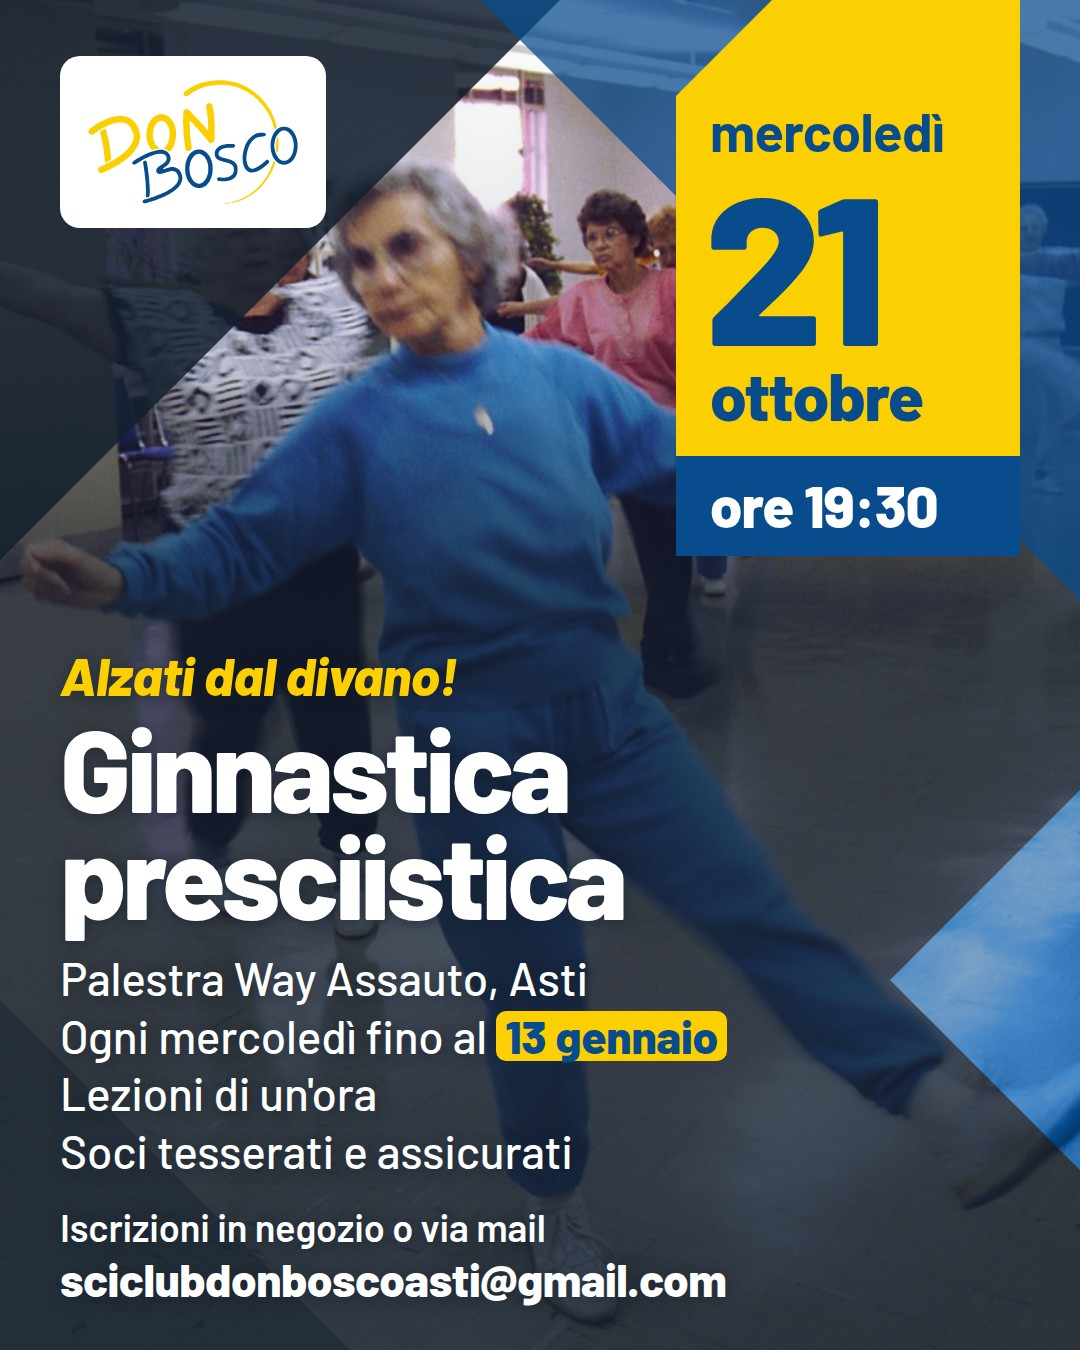
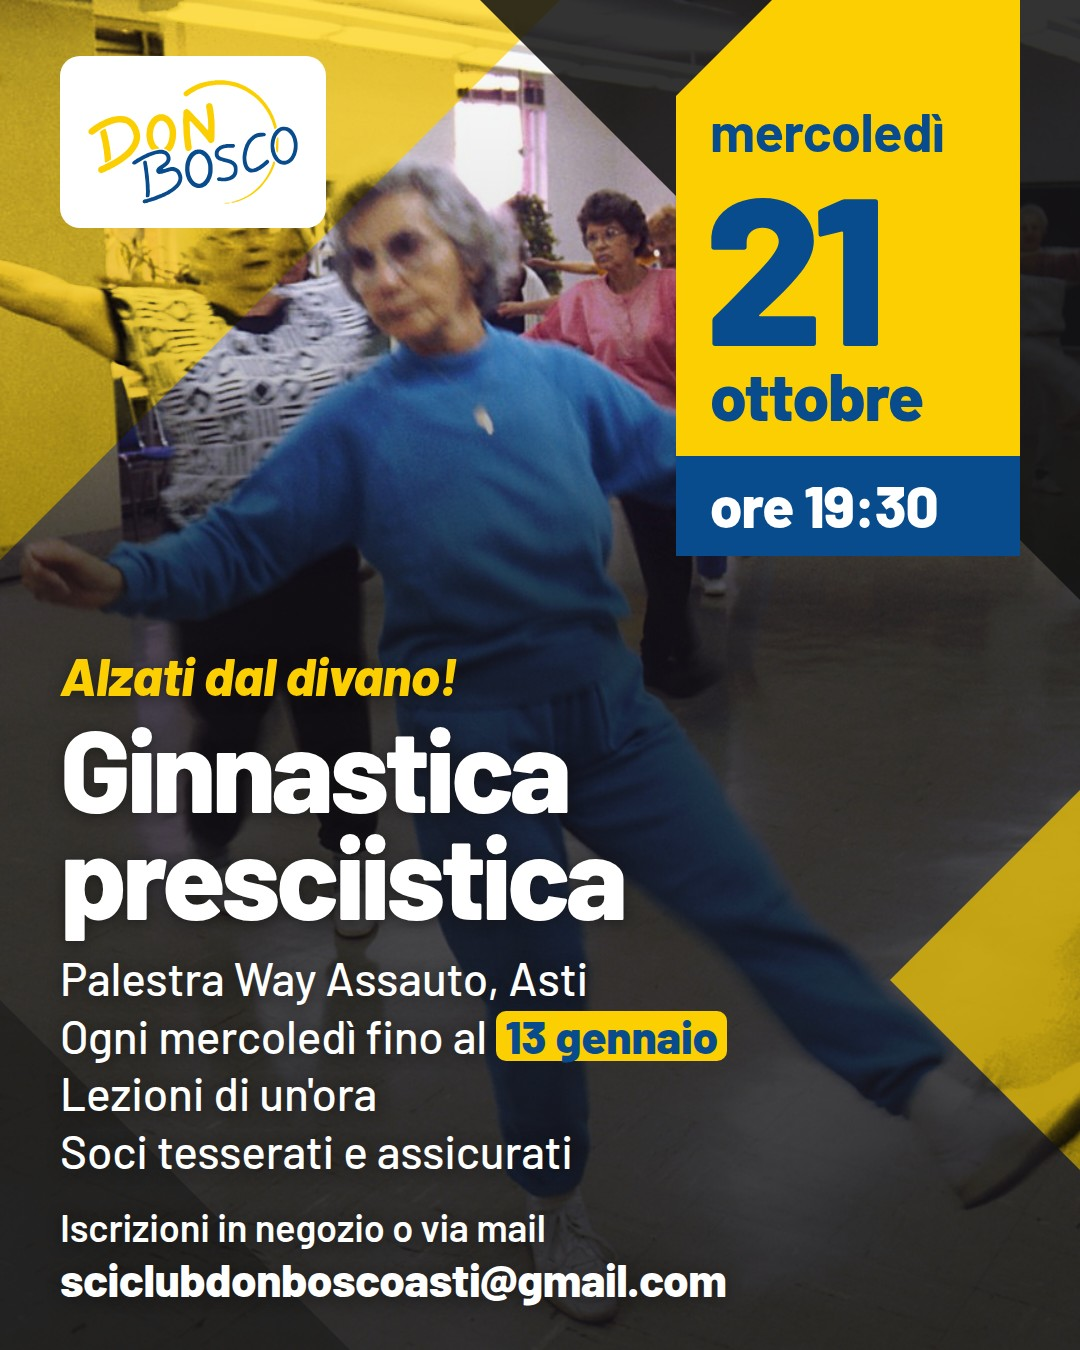
docs(social): K Piani anche in giallo e nero per corsi e gite di domenica [skip ci]
Due colori dal colore del post, come A e C e coloreNuovo nel generatore:
corso e gita in giallo e nero, evento e calendario restano blu e nero.
Nel giallo e nero i piani scuri sono in nero neutro (--notte), il cuneo
dietro la tessera resta scuro, l'angolo in alto a sinistra e la finestra a
destra sono gialli e semitrasparenti (--velo-giallo, 0,7): la foto in grigi
schiariti col giallo in multiply, che non diventa oliva. Tessera, fascia
dell'ora e riquadrini restano blu.

diff --git a/grafica/proposte-post-social/sorgenti/k.css b/grafica/proposte-post-social/sorgenti/k.css
@@ -9,17 +9,18 @@
  * giallo, il titolo bianco in minuscolo e i dati, con orari, prezzi e scadenze
  * nei riquadrini gialli (come in C).
  * Con la classe "story" su <html> la tela è 1080×1920 (fasce coperte 250 e 340). */
-html { --fine: 620px; --angolo: 560px; --cuneo: 600px; --su: 0px; --giu: 0px; }
+/* --notte: il blu notte dei piani e del velo (nelle varianti gialle un nero neutro). */
+html { --notte: 20,32,46; --fine: 620px; --angolo: 560px; --cuneo: 600px; --su: 0px; --giu: 0px; }
 html.story { --fine: 850px; --angolo: 760px; --cuneo: 780px; --su: 250px; --giu: 340px; }
 .cv { background: var(--testo); color: #fff; }
 
 /* La foto a tutta pagina e il velo che la scurisce dove sta il testo (da --fine). */
 .foto { position: absolute; inset: 0; width: 100%; height: 100%; object-fit: cover; object-position: var(--fuoco, center 45%); }
 .piano { position: absolute; inset: 0; }
-.scuro { background: linear-gradient(180deg, rgba(20,32,46,0) 0, rgba(20,32,46,.12) calc(var(--fine) - 300px),
-  rgba(20,32,46,.72) calc(var(--fine) - 20px), rgba(20,32,46,.8) 100%); }
+.scuro { background: linear-gradient(180deg, rgba(var(--notte),0) 0, rgba(var(--notte),.12) calc(var(--fine) - 300px),
+  rgba(var(--notte),.72) calc(var(--fine) - 20px), rgba(var(--notte),.8) 100%); }
 /* I piani, tutti tagliati a 45°. */
-.angolo { background: rgba(20,32,46,.86); clip-path: polygon(0 0, var(--angolo) 0, 0 var(--angolo)); }
+.angolo { background: rgba(var(--notte),.86); clip-path: polygon(0 0, var(--angolo) 0, 0 var(--angolo)); }
 .cuneo { background: rgba(8,76,141,.74); clip-path: polygon(calc(100% - var(--cuneo)) 0, 100% 0, 100% var(--cuneo)); }
 /* La finestra: la stessa foto, allineata, in bianco e nero tinta di blu (fusione "color"). */
 .finestra { background: linear-gradient(rgba(8,76,141,.5), rgba(8,76,141,.5)), linear-gradient(var(--blu), var(--blu)), var(--immagine) var(--fuoco, center 45%) / cover;
@@ -27,7 +28,7 @@ html.story { --fine: 850px; --angolo: 760px; --cuneo: 780px; --su: 250px; --giu:
   clip-path: polygon(100% calc(var(--fine) + 170px), 890px calc(var(--fine) + 360px), 100% calc(var(--fine) + 550px)); }
 .finestra.fondo { display: none; clip-path: polygon(100% calc(100% - 400px), 680px 100%, 100% 100%); }
 html.story .finestra.fondo { display: block; }
-.ombra { background: rgba(20,32,46,.4); clip-path: polygon(0 calc(100% - var(--giu) - 350px), calc(var(--giu) + 350px) 100%, 0 100%); }
+.ombra { background: rgba(var(--notte),.4); clip-path: polygon(0 calc(100% - var(--giu) - 350px), calc(var(--giu) + 350px) 100%, 0 100%); }
 
 .logo-box { position: absolute; left: 60px; top: calc(var(--su) + 56px); padding: 16px 20px; border-radius: 20px; }
 .logo-box img { height: 140px; }
@@ -47,7 +48,7 @@ html.story .finestra.fondo { display: block; }
 /* Il testo sulla foto scurita, da un punto fisso: titolo sempre alto due righe.
  * L'ombra morbida lo stacca dai chiari della foto; i riquadri non ce l'hanno. */
 .testo { position: absolute; left: 60px; right: 60px; top: calc(var(--fine) + 28px); }
-.testo, .iscrizioni { text-shadow: 0 2px 14px rgba(20,32,46,.6); }
+.testo, .iscrizioni { text-shadow: 0 2px 14px rgba(var(--notte),.6); }
 .fatti b, .giorno, .corso { text-shadow: none; }
 .gancio { font: italic 800 54px / 1 Barlow, sans-serif; color: var(--giallo); letter-spacing: -.01em; }
 h1 { font: 800 116px / .92 Barlow, sans-serif; letter-spacing: -.035em; max-width: 640px; margin-top: 12px; min-height: calc(2 * .92 * 116px); }
@@ -66,3 +67,17 @@ html.story .iscrizioni { bottom: 360px; font-size: 44px; }
 .dom { background: var(--giallo); } .sab { background: #fff; }
 .meta { font-size: 48px; font-weight: 700; letter-spacing: -.01em; }
 .corso { font: 700 36px / 1 Barlow, sans-serif; color: var(--giallo); border: 3px solid var(--giallo); border-radius: 999px; padding: 6px 16px; }
+
+/* K in giallo e nero, per i post gialli (corsi e gite di domenica, come coloreNuovo nel
+ * generatore); evento e calendario restano blu. Piani scuri in nero neutro; il cuneo dietro la
+ * tessera resta scuro, se no la tessera sparisce; i dettagli (tessera, ora, riquadrini) restano
+ * blu. L'angolo in alto a sinistra e la finestra a destra sono gialli e semitrasparenti: la foto
+ * in grigi col giallo in multiply (il nero resta nero, il bianco diventa giallo; la clip-path
+ * isola il gruppo, quindi il giallo moltiplica solo la foto), e sotto si vede ancora la foto vera.
+ * Il giallo non va steso a velo sulla foto a colori: col cielo blu diventa verde oliva. */
+.cv.giallo { --notte: 18,18,18; }
+.cv.giallo .cuneo { background: rgba(var(--notte),.86); }
+.cv.giallo :is(.angolo, .finestra) { background: none; opacity: var(--velo-giallo, .7); }
+.cv.giallo :is(.angolo, .finestra)::before, .cv.giallo :is(.angolo, .finestra)::after { content: ""; position: absolute; inset: 0; }
+.cv.giallo :is(.angolo, .finestra)::before { background: var(--immagine) var(--fuoco, center 45%) / cover; filter: grayscale(1) brightness(1.4) contrast(1.2); }
+.cv.giallo :is(.angolo, .finestra)::after { background: var(--giallo); mix-blend-mode: multiply; }

diff --git a/grafica/proposte-post-social/sorgenti/corso-k.html b/grafica/proposte-post-social/sorgenti/corso-k.html
@@ -8,7 +8,7 @@
 <link rel="stylesheet" href="k.css">
 </head>
 <body>
-<div class="cv" style="--immagine: url(foto/corso-ginnastica.jpg); --fuoco: center 30%">
+<div class="cv giallo" style="--immagine: url(foto/corso-ginnastica.jpg); --fuoco: center 30%">
   <img class="foto" src="foto/corso-ginnastica.jpg" alt="Un corso di ginnastica in palestra">
   <div class="piano scuro"></div>
   <div class="piano angolo"></div>

diff --git a/grafica/proposte-post-social/sorgenti/gita-k.html b/grafica/proposte-post-social/sorgenti/gita-k.html
@@ -8,7 +8,7 @@
 <link rel="stylesheet" href="k.css">
 </head>
 <body>
-<div class="cv" style="--immagine: url(foto/gita-la-thuile.jpg)">
+<div class="cv giallo" style="--immagine: url(foto/gita-la-thuile.jpg)">
   <img class="foto" src="foto/gita-la-thuile.jpg" alt="La Thuile, la pista San Bernardo">
   <div class="piano scuro"></div>
   <div class="piano angolo"></div>

diff --git a/grafica/proposte-post-social/README.md b/grafica/proposte-post-social/README.md
@@ -436,6 +436,14 @@ immagini, niente omino al centro; poi meno blu, col testo direttamente sulla fot
   (`background-blend-mode: color`): lì può andare anche un'altra immagine (la variabile
   `--immagine` sul `.cv`; nel calendario, per prova, c'è La Thuile sopra la montagna). Nella
   story una seconda finestra riempie la fascia coperta in fondo.
+- **Due colori, dal colore del post** (come A e C e `coloreNuovo` nel generatore): corsi e gite
+  di domenica in **giallo e nero**, evento, calendario e il resto in **blu e nero**. Nel giallo
+  e nero (classe `giallo` sul `.cv`, richiesta del 13/10) i piani scuri sono in nero neutro
+  (`--notte`), il cuneo dietro la tessera resta scuro, l'angolo in alto a sinistra e la finestra
+  a destra sono gialli e semitrasparenti (`--velo-giallo`, 0,7): la foto in grigi schiariti col
+  giallo in multiply, così il nero resta nero e il bianco diventa giallo, e sotto si vede ancora
+  la foto vera. Tessera, fascia dell'ora e riquadrini restano blu. Il giallo steso a velo sulla
+  foto a colori non va: col cielo blu e i grigi medi diventa verde oliva.
 - La **tessera gialla del "quando"**, appesa al bordo alto con l'angolo tagliato (come il
   riquadro giallo del loro "WIN!"): giorno della settimana, numero enorme (Barlow nero 210),
   mese e, nella **fascia blu, l'ora** in bianco (`ore 19:30`; nella gita la prima partenza).

diff --git a/TODO.md b/TODO.md
@@ -1,4 +1,4 @@
-# TODO — aggiornato il 2026-10-11
+# TODO — aggiornato il 2026-10-13
 
 > Le richieste nuove si scrivono qui in cima, in "Richieste nuove". Quando una cosa è fatta si
 > toglie: la storia resta nei commit (`git log`). Come si lavora: `docs/SVILUPPO.md`.
@@ -31,6 +31,9 @@
   - [ ] Finestra: oggi la stessa foto tinta di blu; un'altra immagine vorrebbe un secondo
         caricamento.
   - [ ] Righe dei dati lunghe: non devono arrivare alla finestra (accorciare o rimpicciolire).
+  - [ ] Due colori (13/10): giallo e nero per corsi e gite di domenica (classe `giallo` in
+        `sorgenti/k.css`), blu e nero per il resto; nel generatore la variante viene da
+        `coloreNuovo`.
 - [ ] 11/10: grafiche dei post nello stile dei marchi dello sci, coi colori del club. Fatte
       come tavole le proposte **D · Pista** (alla Head), **E · Fascia** (alla Rossignol) e
       **F · Diagonale** (alla Ski Club of Great Britain), poi le idee da gara **G · Cronometro**,
